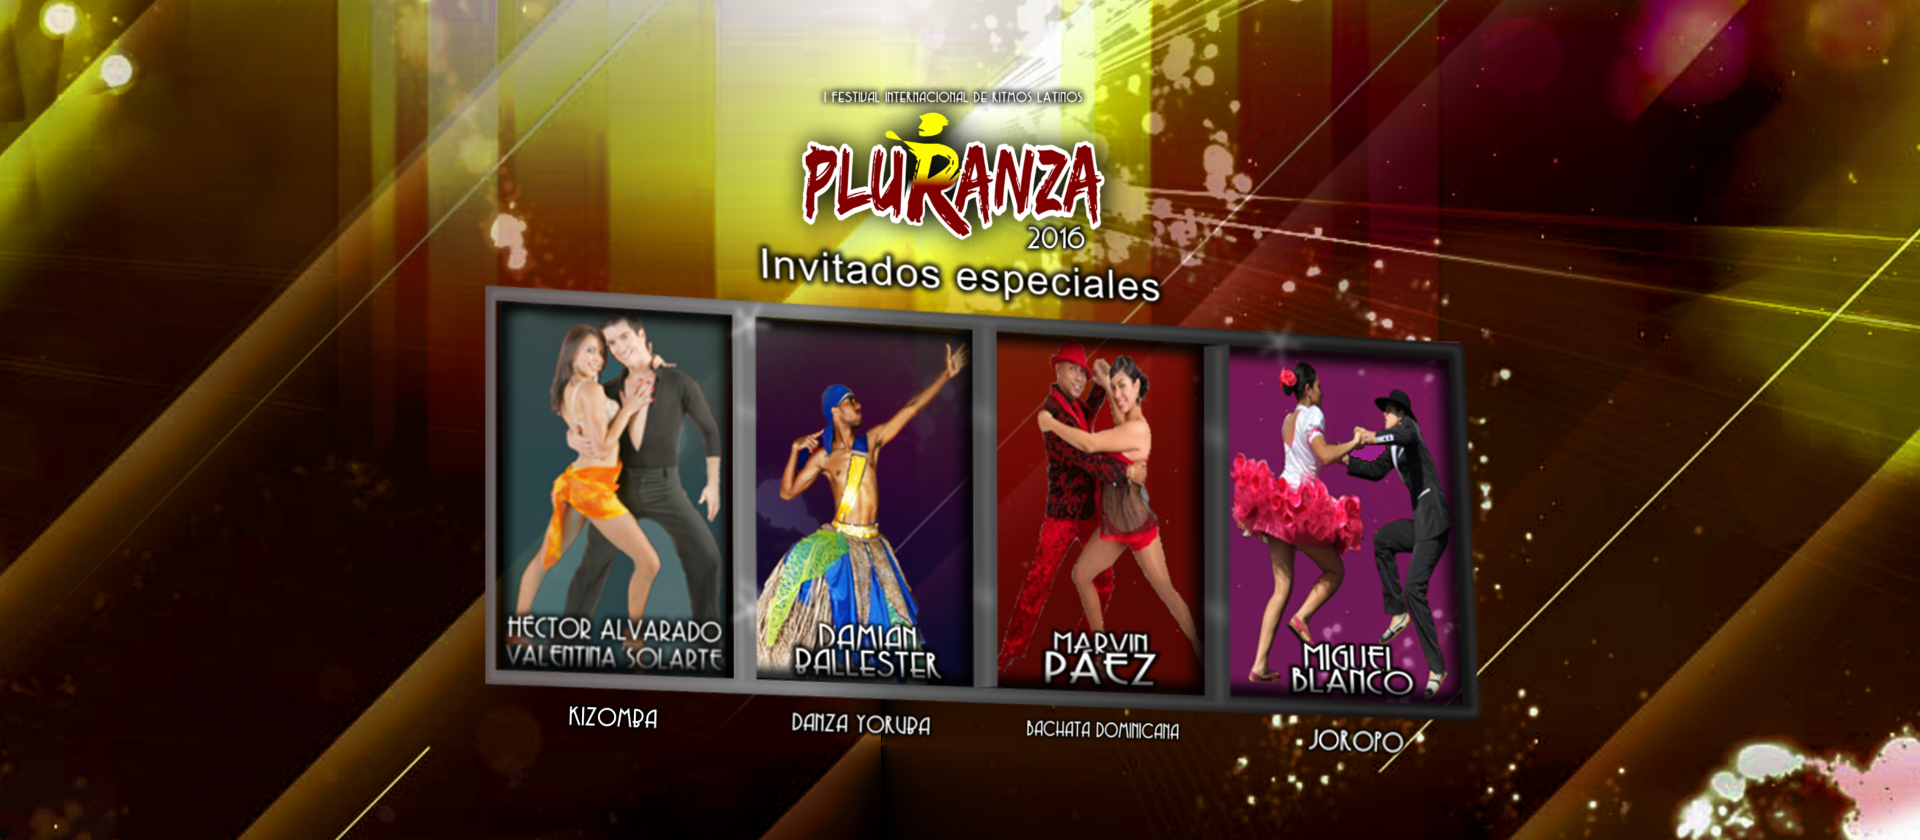
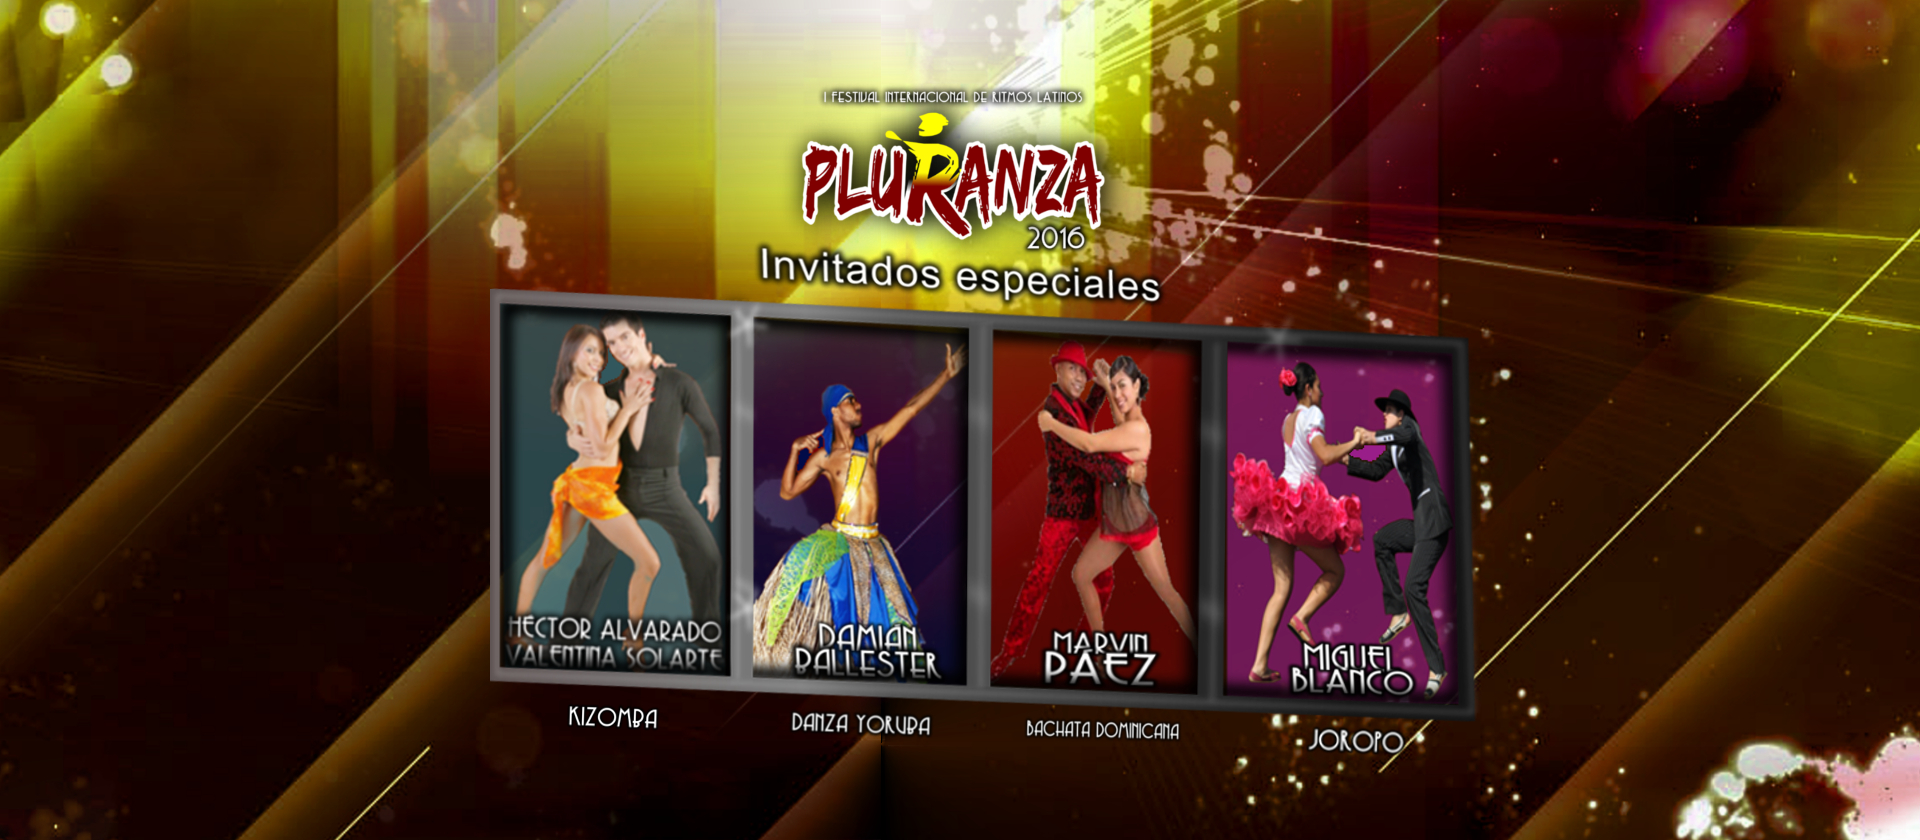
Nueva imagen invitados, arreglado título de registrar usuario en home, habilitado campo nombre en edita academia

Changed region(s): [[0.25, 0.3405, 0.7812, 0.8357], [0.5938, 0.4952, 0.6562, 0.8357], [0.375, 0.4643, 0.4062, 0.5262]]

diff --git a/resources/views/pluranza/academies/partials/_base-data-form.blade.php b/resources/views/pluranza/academies/partials/_base-data-form.blade.php
@@ -4,9 +4,8 @@
         <a class="btn btn-xs btn-gray ct-u-colorLighterGrey ct-u-cursorPointer" href="{{ route('users.login') }}">Ingresar</a>
     </div>
     <div class="text-left">
-        <h3 class="ct-u-marginBoth0 ct-u-paddingTop5 ct-u-marginTopMinus10 ct-u-size24 ct-fw-400">Registrate en PLURANZA 2016</h3>
+        <h3 class="ct-u-marginBoth0 ct-u-paddingTop5 ct-u-marginTopMinus10 ct-u-size24 ct-fw-400">REGÍSTRATE EN <i>PLURANZA 2016</i></h3>
     </div>
-    @include('partials._flash')
     @include('partials._errors')
     {!! Form::open(array('url' => route('pluranza.academies.store'), 'method' => 'post', 'class' => 'ct-u-paddingTop25 ct-u-form-control--Default ct-loginForm', 'accept-charset' => 'UTF-8')) !!}
         <div class="form-group">

diff --git a/resources/views/pluranza/academies/edit.blade.php b/resources/views/pluranza/academies/edit.blade.php
@@ -39,7 +39,7 @@
                                 <label class="control-label ct-titleBox" for="logo">
                                     Nombre de la academia (Si es independiente, coloque su nombre)(*)
                                 </label>
-                                {!! Form::text('name', old('name'), array('placeholder' => 'Nombre de la Academia', 'class' => 'form-control input-sm', 'disabled' => 'disabled')) !!}
+                                {!! Form::text('name', old('name'), array('placeholder' => 'Nombre de la Academia', 'class' => 'form-control input-sm')) !!}
                             </div>
                         </div>
                     </div>
